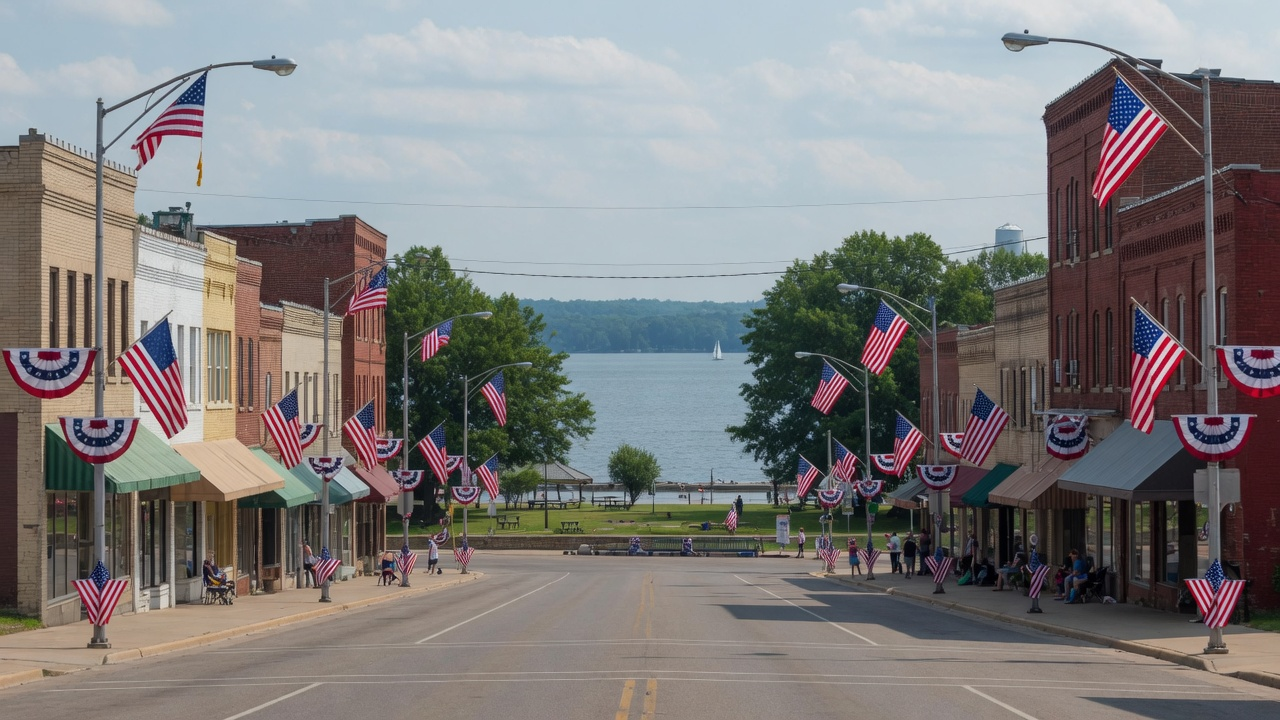
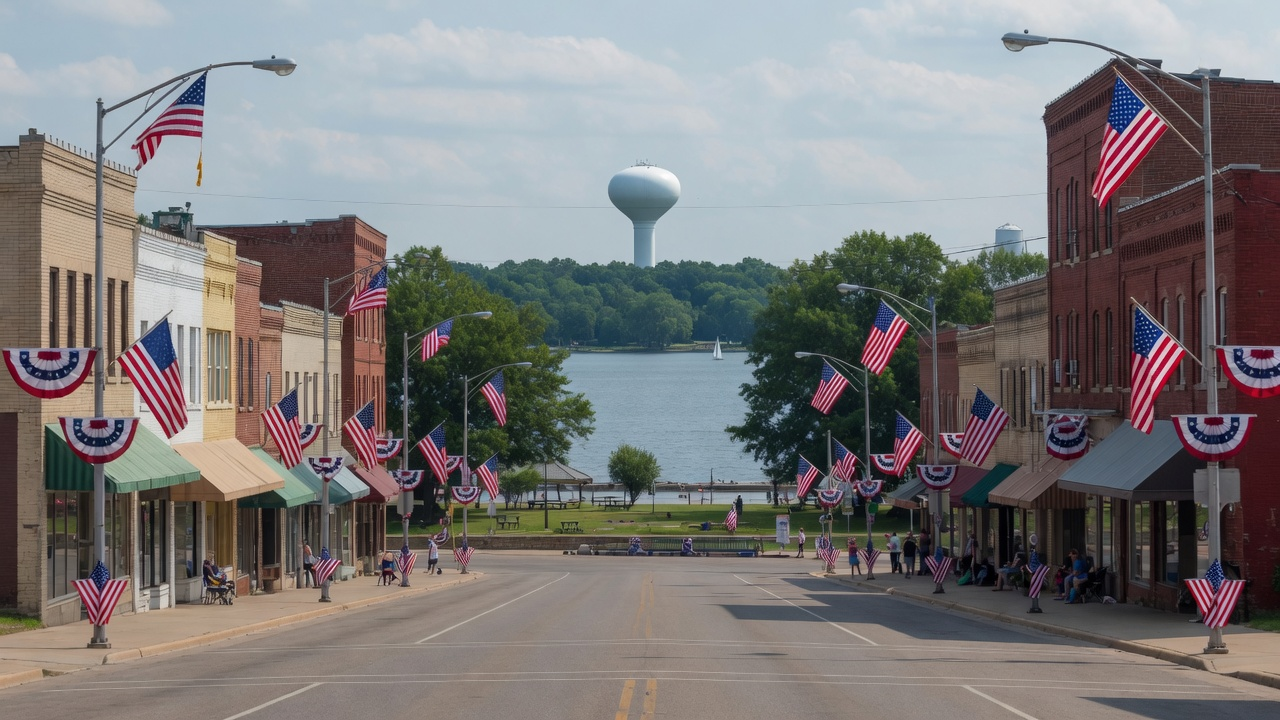
Remove photo labels; refine Forest Lake MN scenes without on-image text

Changed region(s): [[0.3438, 0.2139, 0.625, 0.5194], [0.625, 0.7639, 0.6562, 0.7944], [0.3438, 0.7639, 0.375, 0.7944]]

diff --git a/server.js b/server.js
@@ -766,7 +766,7 @@ function layout(title, body, opts = {}) {
   <meta name="viewport" content="width=device-width, initial-scale=1" />
   <meta name="description" content="St. Croix Valley Field Hub—volunteer resource for Minnesota Senate District 33 and House Districts 33A and 33B. Maps, candidates, events, and field tools for Forest Lake, Stillwater, and neighboring communities." />
   <title>${esc(title)} · St. Croix Valley Field Hub · SD 33</title>
-  <link rel="stylesheet" href="/css/lit.css?v=home7" />
+  <link rel="stylesheet" href="/css/lit.css?v=home8" />
   ${extraHead}
 </head>
 <body>
@@ -1002,32 +1002,27 @@ app.get("/", (req, res) => {
           <a class="btn btn-navy" href="/volunteer">Volunteer Signup</a>
         </div>
       </div>
-      <span class="photo-credit">Forest Lake, Minnesota · Lakeside park character · Original illustration for this site</span>
     </section>
 
-    <div class="gallery" aria-label="Forest Lake, Minnesota and Independence Day">
+    <div class="gallery" aria-label="Local scenery">
       <figure>
-        <img src="/images/forest-lake-scenic.jpg?v=2" alt="Lakeside Memorial Park style beach and shoreline on Forest Lake in Forest Lake, Minnesota" width="640" height="360" loading="eager" />
-        <figcaption>Forest Lake · Lakeside Park</figcaption>
+        <img src="/images/forest-lake-scenic.jpg?v=3" alt="Public beach and park shoreline on the lake in Forest Lake, Minnesota" width="640" height="360" loading="eager" />
       </figure>
       <figure>
-        <img src="/images/forest-lake-july4-parade.jpg?v=2" alt="Downtown Forest Lake Broadway corridor with American flags for Independence Day" width="640" height="360" loading="eager" />
-        <figcaption>Forest Lake · Fourth of July</figcaption>
+        <img src="/images/forest-lake-july4-parade.jpg?v=3" alt="Downtown street with American flags leading toward the lake" width="640" height="360" loading="eager" />
       </figure>
       <figure>
-        <img src="/images/forest-lake-waterfront.jpg?v=2" alt="Aerial view of Forest Lake, Minnesota, with multi-bay lake and suburban shoreline" width="640" height="360" loading="lazy" />
-        <figcaption>Forest Lake · The Lake</figcaption>
+        <img src="/images/forest-lake-waterfront.jpg?v=3" alt="Aerial view of the multi-bay lake and suburban shoreline in Forest Lake, Minnesota" width="640" height="360" loading="lazy" />
       </figure>
       <figure>
-        <img src="/images/mn-flag-historic.jpg?v=2" alt="Original historic Minnesota state flag, 1957 to 2023 design with state seal" width="640" height="360" loading="lazy" />
-        <figcaption>Original Minnesota Flag</figcaption>
+        <img src="/images/mn-flag-historic.jpg?v=3" alt="Historic Minnesota state flag with Great Seal, 1957 to 2023 design" width="640" height="360" loading="lazy" />
       </figure>
     </div>
 
     <p class="image-rights">
-      <strong>Image rights.</strong> Forest Lake and community scenes are original illustrations created for this Field Hub (inspired by Lakeside Memorial Park, Broadway / Lake Street, and the multi-bay lake—not third-party stock photographs).
-      The flag shown is the <strong>original Minnesota state flag (1957–2023)</strong> with the Great Seal and nineteen stars—not the 2024 North Star redesign. Heritage and educational display only.
-      This site is an independent volunteer resource—not a government website.
+      <strong>Image rights.</strong> Community scenes are original illustrations for this Field Hub, reflecting Forest Lake, Minnesota (public lakeside park, Broadway / Lake Street character, and the multi-bay lake)—not third-party stock photographs.
+      The flag is the historic Minnesota state flag (1957–2023 seal design), not the 2024 redesign. Heritage display only.
+      Independent volunteer resource—not a government website.
     </p>
 
     <section class="values-band home-section" aria-label="Our standards for candidates">
@@ -1035,22 +1030,12 @@ app.get("/", (req, res) => {
       <p>We value the true merit and leadership of each candidate for our community—integrity, competence, and service over slogans. We favor transparency: clear public records, honest debate, and open field practices so neighbors can judge who will serve Forest Lake, Stillwater, and the St.&nbsp;Croix Valley with accountability.</p>
     </section>
 
-    <section class="heritage-band home-section" aria-label="Minnesota loon and original state flag">
-      <div class="heritage-loon" role="img" aria-label="Common loon on a Minnesota lake">
-        <div class="heritage-loon-caption">
-          <strong>The Loon · Land of 10,000 Lakes</strong>
-          <span>Minnesota communities · local seats that matter</span>
-        </div>
-      </div>
-      <div class="heritage-flag" role="img" aria-label="Original Minnesota state flag, 1957 to 2023 design">
-        <div class="heritage-flag-caption">
-          <strong>Original Minnesota Flag</strong>
-          1957–2023 seal design · not the 2024 redesign
-        </div>
-      </div>
+    <section class="heritage-band home-section" aria-label="Minnesota loon and historic state flag">
+      <div class="heritage-loon" role="img" aria-label="Common loon on a Minnesota lake"></div>
+      <div class="heritage-flag" role="img" aria-label="Historic Minnesota state flag, 1957 to 2023 design"></div>
       <div class="heritage-copy">
         <h2>Forest Lake &amp; Neighboring Towns</h2>
-        <p>From Forest Lake’s shoreline and Broadway corridor to Stillwater and Hugo, this hub offers professional field tools for residents who care about Minnesota’s future and the legislative seats that shape daily life in Senate District&nbsp;33.</p>
+        <p>From the shoreline and main streets of Forest Lake to Stillwater and Hugo, this hub offers professional field tools for residents who care about Minnesota’s future and the legislative seats that shape daily life in Senate District&nbsp;33.</p>
         <p class="muted" style="margin:0">Volunteer for doors, community events, and literature. Choose candidates on merit. Request a bundle pack and connect with neighbors in your district or nearby.</p>
         <div class="cta-row">
           <a class="btn btn-gold" href="/volunteer">Join the Team</a>
@@ -2312,22 +2297,18 @@ app.get("/win-playbook", (req, res) => {
       <div class="gallery" aria-label="St. Croix Valley and Minnesota lakes">
         <figure>
           <img src="/images/loon-lake.jpg" alt="Common loon on a Minnesota lake" />
-          <figcaption>Minnesota Loon</figcaption>
         </figure>
         <figure>
-          <img src="/images/forest-lake-scenic.jpg" alt="Forest Lake, Minnesota" />
-          <figcaption>Forest Lake</figcaption>
+          <img src="/images/forest-lake-scenic.jpg?v=3" alt="Public lakeside park in Forest Lake, Minnesota" />
         </figure>
         <figure>
           <img src="/images/st-croix-valley.jpg" alt="St. Croix River valley" />
-          <figcaption>St. Croix Valley</figcaption>
         </figure>
         <figure>
-          <img src="/images/forest-lake-july4-parade.jpg" alt="Independence Day community parade" />
-          <figcaption>Community Events</figcaption>
+          <img src="/images/forest-lake-july4-parade.jpg?v=3" alt="Downtown street with American flags near the lake" />
         </figure>
       </div>
-      <p>Photography and original illustrations reflect Washington County and the St.&nbsp;Croix Valley for a professional local presentation.</p>
+      <p>Original illustrations reflect Washington County and the St.&nbsp;Croix Valley for a professional local presentation.</p>
       <p><a class="btn btn-gold" href="/review">Send for Review</a> <a class="btn" href="/share">Share Links</a></p>
     </section>`;
   sendPage(req, res, "Field Guide", body);

diff --git a/public/css/lit.css b/public/css/lit.css
@@ -375,18 +375,8 @@ form.card label { display: block; margin-bottom: 0.25rem; font-size: 0.9rem; }
   transition: transform 0.35s ease;
 }
 .gallery figure:hover img { transform: scale(1.04); }
-.gallery figcaption {
-  position: absolute;
-  left: 0;
-  right: 0;
-  bottom: 0;
-  padding: 0.45rem 0.55rem;
-  font-size: 0.72rem;
-  font-weight: 600;
-  color: #fff;
-  background: linear-gradient(transparent, rgba(6, 26, 46, 0.82));
-  letter-spacing: 0.01em;
-}
+/* No labels on photos — captions removed for a clean presentation */
+.gallery figcaption { display: none; }
 @media (max-width: 700px) {
   .gallery { grid-template-columns: repeat(2, 1fr); }
   .gallery img { height: 110px; }
@@ -422,26 +412,7 @@ form.card label { display: block; margin-bottom: 0.25rem; font-size: 0.9rem; }
   background: linear-gradient(120deg, rgba(6, 26, 46, 0.55) 0%, rgba(6, 26, 46, 0.12) 55%, transparent 100%);
   z-index: 0;
 }
-.heritage-loon-caption {
-  position: absolute;
-  z-index: 2;
-  left: 1rem;
-  bottom: 0.85rem;
-  right: 1rem;
-  color: #fff;
-  text-shadow: 0 1px 10px rgba(0, 0, 0, 0.45);
-}
-.heritage-loon-caption strong {
-  display: block;
-  font-size: 1.05rem;
-  letter-spacing: -0.01em;
-}
-.heritage-loon-caption span {
-  display: block;
-  font-size: 0.82rem;
-  opacity: 0.9;
-  margin-top: 0.2rem;
-}
+/* Photo panels have no on-image text labels */
 .heritage-flag {
   position: relative;
   border-radius: calc(var(--radius) + 2px);
@@ -454,25 +425,7 @@ form.card label { display: block; margin-bottom: 0.25rem; font-size: 0.9rem; }
   align-items: flex-end;
 }
 .heritage-flag::after {
-  content: "";
-  position: absolute;
-  inset: 0;
-  background: linear-gradient(to top, rgba(6, 26, 46, 0.75) 0%, transparent 55%);
-  pointer-events: none;
-}
-.heritage-flag-caption {
-  position: relative;
-  z-index: 1;
-  padding: 0.85rem 0.9rem;
-  color: #fff;
-  font-size: 0.78rem;
-  line-height: 1.35;
-  text-shadow: 0 1px 8px rgba(0, 0, 0, 0.5);
-}
-.heritage-flag-caption strong {
-  display: block;
-  font-size: 0.92rem;
-  margin-bottom: 0.2rem;
+  content: none;
 }
 .heritage-copy {
   background: var(--card);
